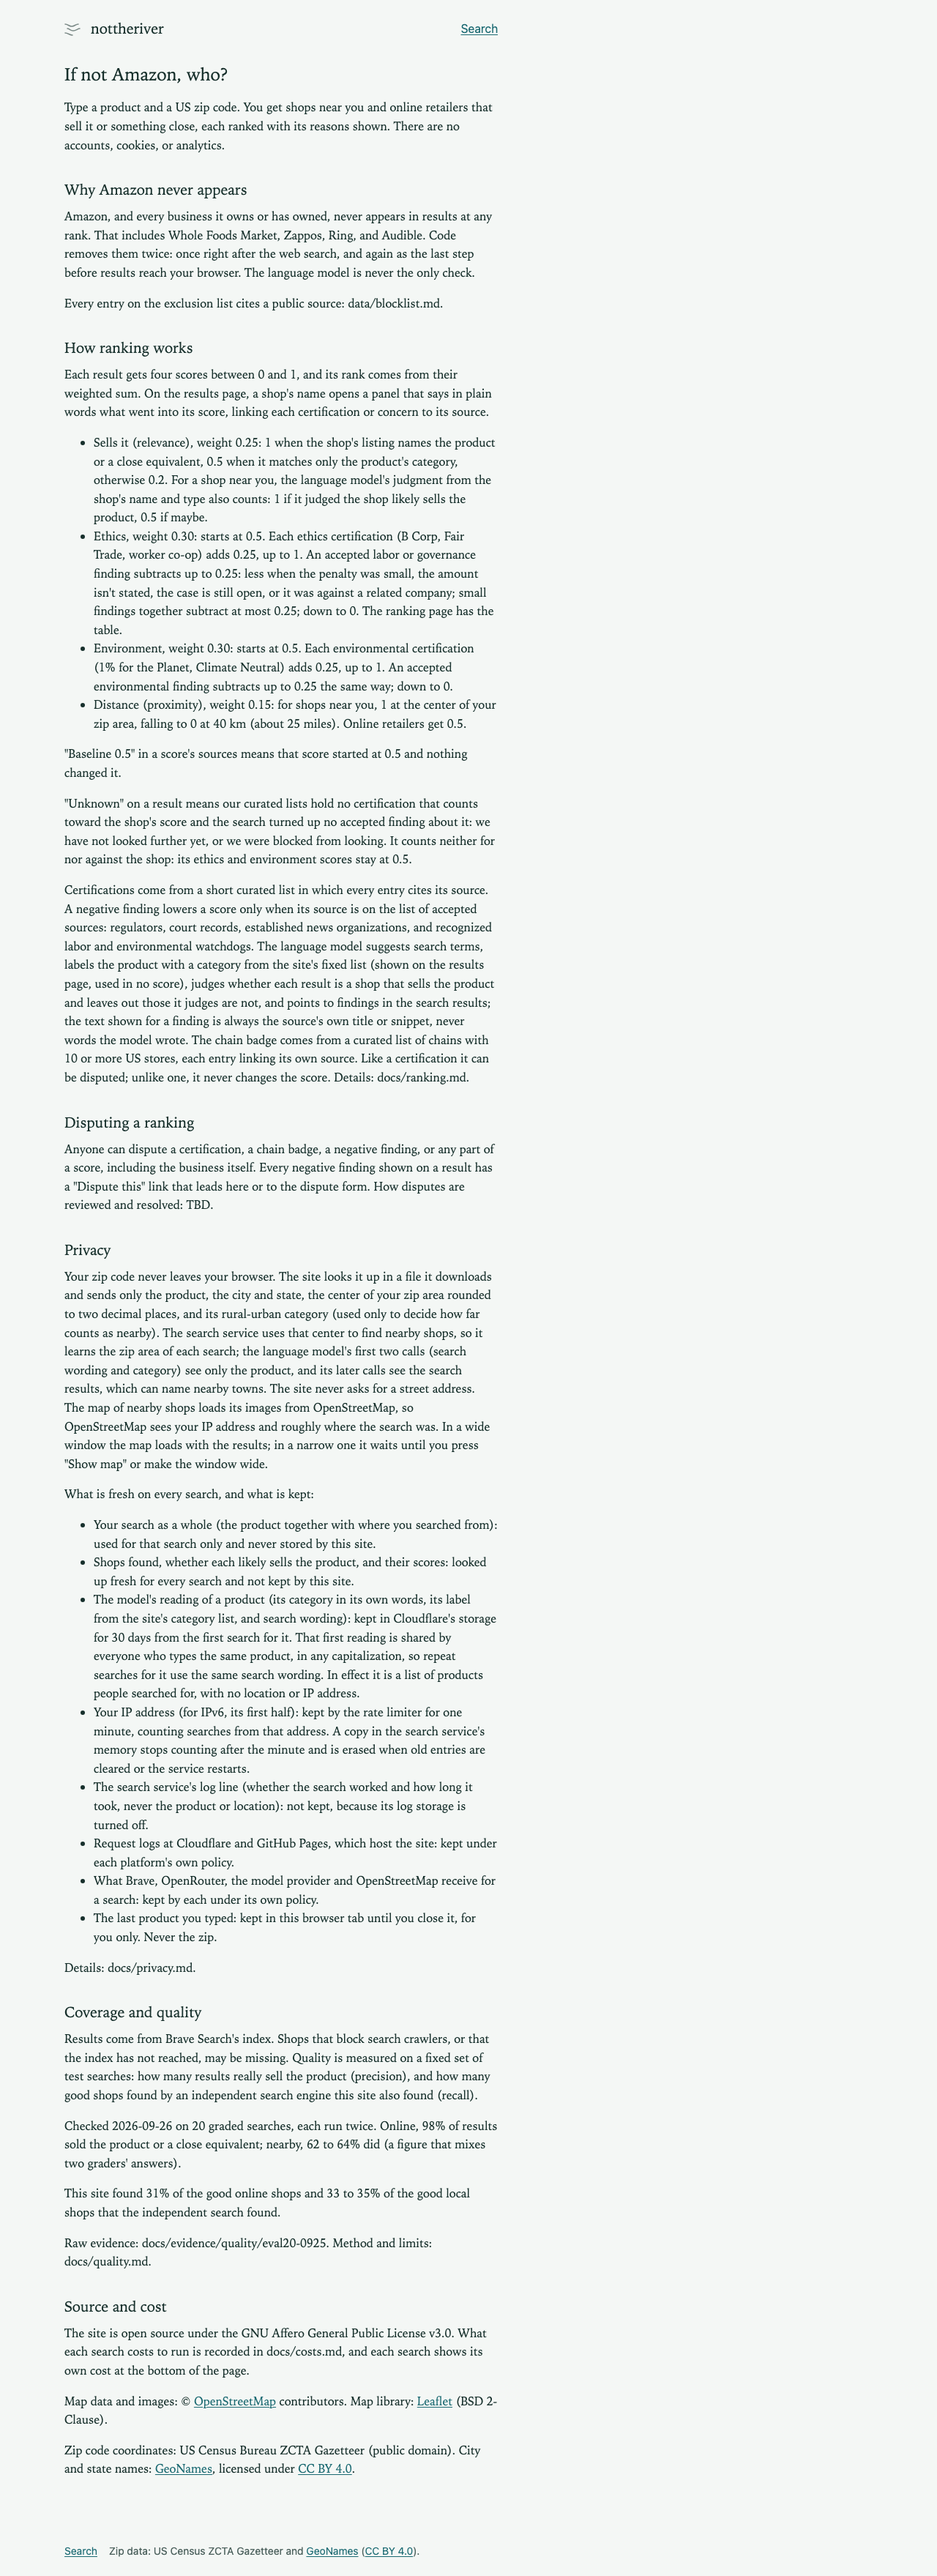
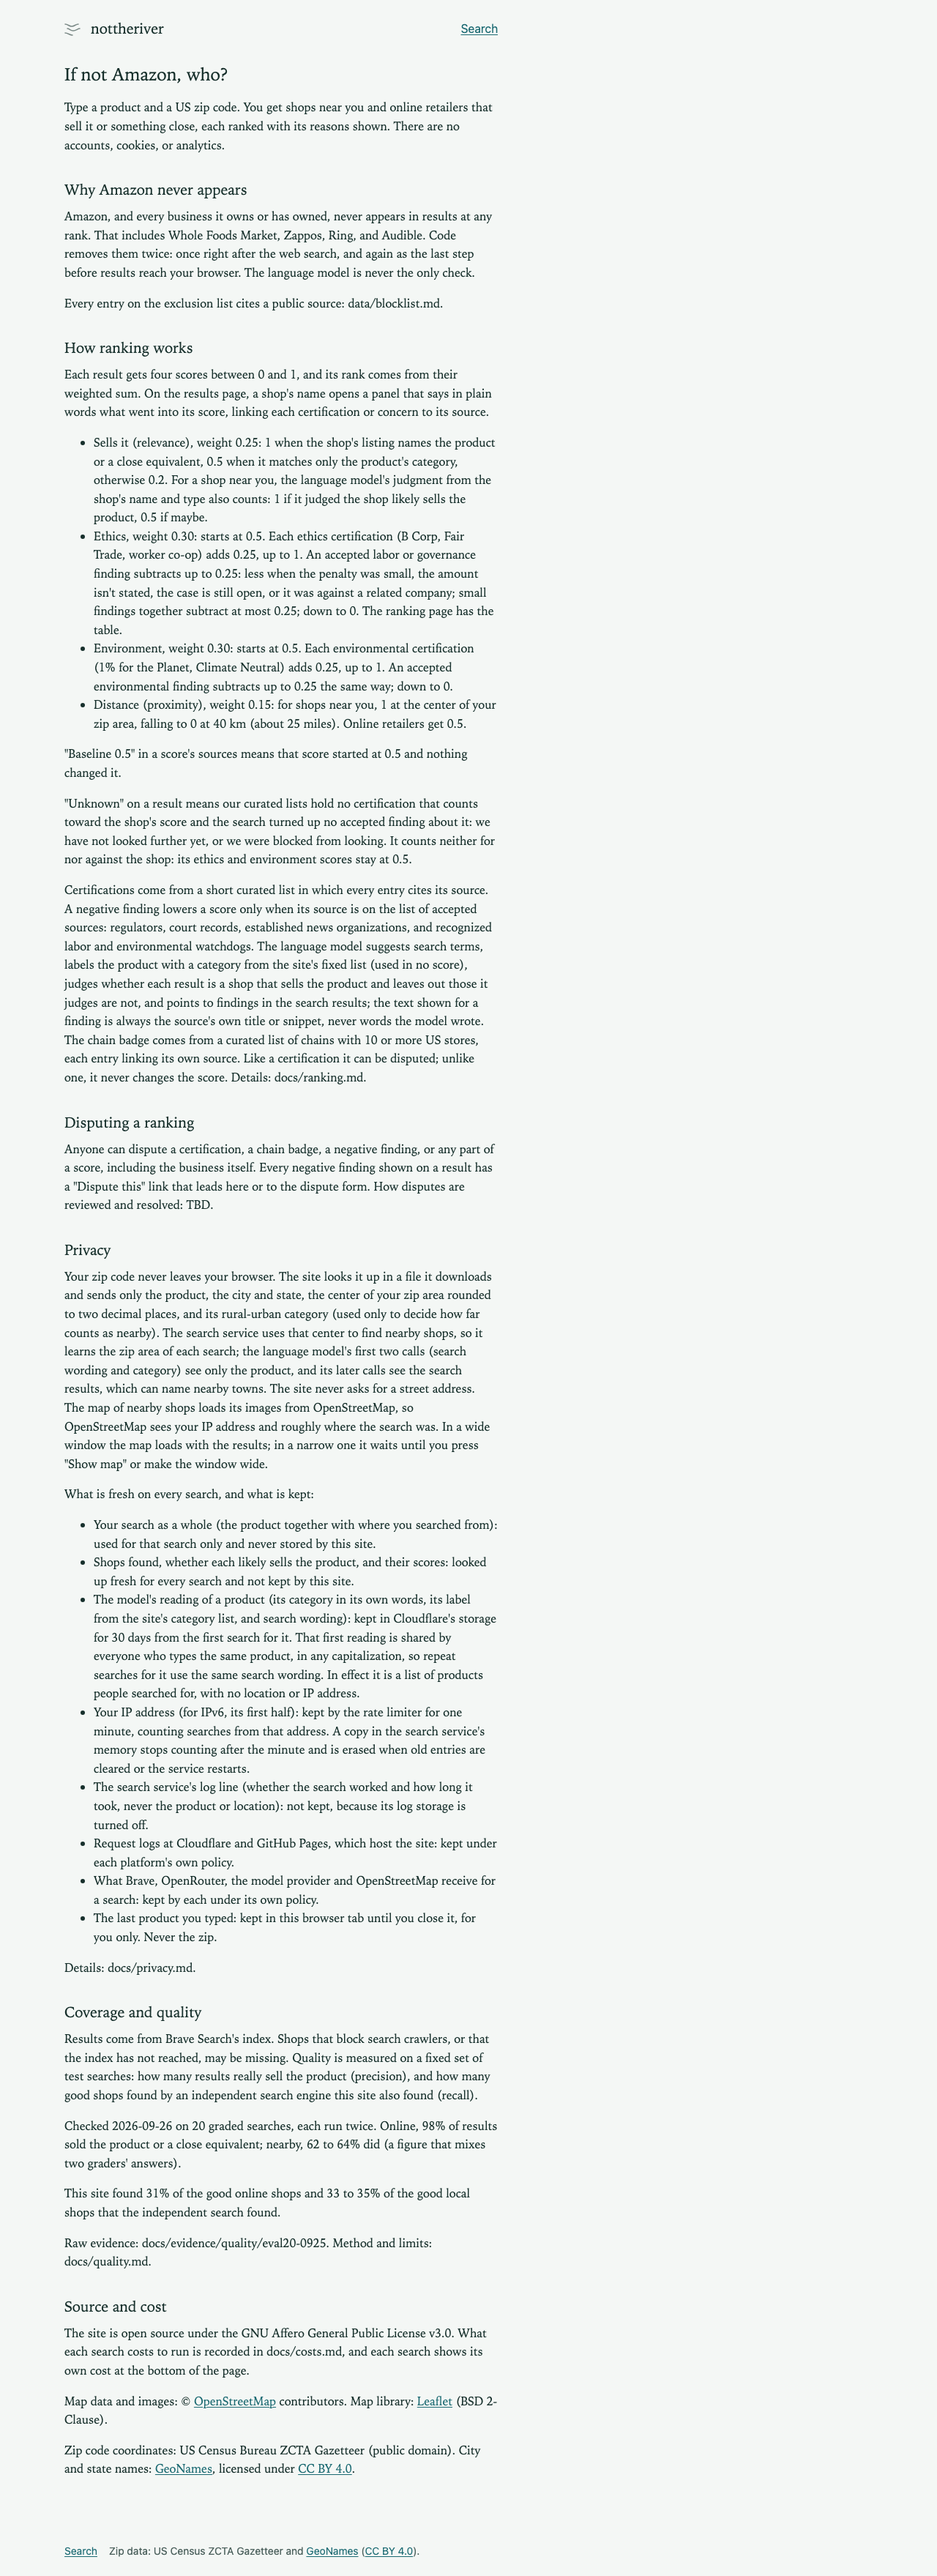
feat(results): show the generic name alone on the "We looked for" line
The owner dropped the category names from the line. The line now shows
for every search reply, since it no longer reads the category pick. The
About page no longer says the category is shown on the results page.

Changed region(s): [[0.0625, 0.3718, 0.5312, 0.4338]]

diff --git a/src/main.test.ts b/src/main.test.ts
@@ -266,29 +266,24 @@ describe('search page', () => {
     expect(box.querySelector('details')!.open).toBe(true);
   });
 
-  it('says how the search was read when the reply carries a category pick, and clears it for the next search', async () => {
-    const pick = { general: 'tools_hardware', specific: 'power_tools', general_name: 'Tools and hardware', specific_name: 'Power tools' };
-    searchReplies(() => new Response(JSON.stringify({ ...fixture, query: { ...fixture.query, product: 'DeWalt DCD771', canonical_name: 'cordless drill', pick } }), { status: 200 }));
+  it('says how the search was read, and replaces the line on the next search', async () => {
+    searchReplies(() => new Response(JSON.stringify({ ...fixture, query: { ...fixture.query, product: 'DeWalt DCD771', canonical_name: 'cordless drill' } }), { status: 200 }));
     submit('DeWalt DCD771', '10001');
     const line = $('[data-looked-for]');
-    await vi.waitFor(() => expect(line.hidden).toBe(false));
-    expect(line.textContent).toBe('We looked for: cordless drill (Tools and hardware, Power tools)');
-    // A reply from a Worker that made no category call has no pick: no line, and the page still works.
-    searchReplies(() => new Response(JSON.stringify(fixture), { status: 200 }));
+    await vi.waitFor(() => expect(line.textContent).toBe('We looked for: cordless drill'));
+    expect(line.hidden).toBe(false);
+    searchReplies(() => new Response(JSON.stringify({ ...fixture, query: { ...fixture.query, canonical_name: 'kettle' } }), { status: 200 }));
     submit('kettle', '10001');
-    await vi.waitFor(() => expect($('[data-found]').textContent).toMatch(/^Found/));
-    expect(line.hidden).toBe(true);
-    expect(line.textContent).toBe('');
+    await vi.waitFor(() => expect(line.textContent).toBe('We looked for: kettle'));
   });
 
   it('says how the search was read when the search found nothing', async () => {
-    const pick = { general: 'tools_hardware', specific: null, general_name: 'Tools and hardware' };
-    const query = { ...fixture.query, product: 'DeWalt DCD771', canonical_name: 'cordless drill', pick };
+    const query = { ...fixture.query, product: 'DeWalt DCD771', canonical_name: 'cordless drill' };
     searchReplies(() => new Response(JSON.stringify({ ...fixture, query, local: [], local_farther: [], online: [] }), { status: 200 }));
     submit('DeWalt DCD771', '10001');
     const line = $('[data-looked-for]');
     await vi.waitFor(() => expect(line.hidden).toBe(false));
-    expect(line.textContent).toBe('We looked for: cordless drill (Tools and hardware)');
+    expect(line.textContent).toBe('We looked for: cordless drill');
     expect($('#results').hidden).toBe(true);
   });
 

diff --git a/about.html b/about.html
@@ -39,7 +39,7 @@
 </ul>
 <p>"Baseline 0.5" in a score's sources means that score started at 0.5 and nothing changed it.</p>
 <p>"Unknown" on a result means our curated lists hold no certification that counts toward the shop's score and the search turned up no accepted finding about it: we have not looked further yet, or we were blocked from looking. It counts neither for nor against the shop: its ethics and environment scores stay at 0.5.</p>
-<p>Certifications come from a short curated list in which every entry cites its source. A negative finding lowers a score only when its source is on the list of accepted sources: regulators, court records, established news organizations, and recognized labor and environmental watchdogs. The language model suggests search terms, labels the product with a category from the site's fixed list (shown on the results page, used in no score), judges whether each result is a shop that sells the product and leaves out those it judges are not, and points to findings in the search results; the text shown for a finding is always the source's own title or snippet, never words the model wrote. The chain badge comes from a curated list of chains with 10 or more US stores, each entry linking its own source. Like a certification it can be disputed; unlike one, it never changes the score. Details: <a data-repo-path="blob/main/docs/ranking.md">docs/ranking.md</a>.</p>
+<p>Certifications come from a short curated list in which every entry cites its source. A negative finding lowers a score only when its source is on the list of accepted sources: regulators, court records, established news organizations, and recognized labor and environmental watchdogs. The language model suggests search terms, labels the product with a category from the site's fixed list (used in no score), judges whether each result is a shop that sells the product and leaves out those it judges are not, and points to findings in the search results; the text shown for a finding is always the source's own title or snippet, never words the model wrote. The chain badge comes from a curated list of chains with 10 or more US stores, each entry linking its own source. Like a certification it can be disputed; unlike one, it never changes the score. Details: <a data-repo-path="blob/main/docs/ranking.md">docs/ranking.md</a>.</p>
 
 <h2 id="dispute">Disputing a ranking</h2>
 <p>Anyone can dispute a certification, a chain badge, a negative finding, or any part of a score, including the business itself. Every negative finding shown on a result has a "Dispute this" link that leads here or to the dispute form. How disputes are reviewed and resolved: TBD.</p>

diff --git a/src/render.test.ts b/src/render.test.ts
@@ -1089,27 +1089,18 @@ describe('map of nearby shops', () => {
 });
 
 describe('renderLookedFor', () => {
-  const query = (pick?: SearchResponse['query']['pick']) => ({ ...response.query, canonical_name: 'laptop', ...(pick && { pick }) });
-  const line = (pick?: SearchResponse['query']['pick']) => {
-    const p = document.createElement('p');
-    renderLookedFor(p, query(pick));
-    return p;
-  };
-
-  it.each([
-    ['both levels', { general: 'electronics', specific: 'computers', general_name: 'Electronics and computers', specific_name: 'Computers' }, 'We looked for: laptop (Electronics and computers, Computers)'],
-    ['the general level alone', { general: 'pets', specific: null, general_name: 'Pet supplies' }, 'We looked for: laptop (Pet supplies)'],
-    ['no category', { general: 'none', specific: null }, 'We looked for: laptop'],
-    ['not a product: the name alone, never an id', { general: 'not_a_product', specific: 'meal' }, 'We looked for: laptop'],
-  ])('%s', (_name, pick, text) => {
-    const p = line(pick);
-    expect(p.hidden).toBe(false);
-    expect(p.textContent).toBe(text);
+  it('shows the generic name alone, with or without a category pick', () => {
+    for (const pick of [undefined, { general: 'electronics', specific: 'computers', general_name: 'Electronics and computers', specific_name: 'Computers' }]) {
+      const p = document.createElement('p');
+      renderLookedFor(p, { ...response.query, canonical_name: 'laptop', ...(pick && { pick }) });
+      expect(p.hidden).toBe(false);
+      expect(p.textContent).toBe('We looked for: laptop');
+    }
   });
 
-  it('stays hidden without a pick, and is emptied when the results are cleared', () => {
-    expect(line().hidden).toBe(true);
-    const p = line({ general: 'none', specific: null });
+  it('is hidden and emptied when the results are cleared', () => {
+    const p = document.createElement('p');
+    renderLookedFor(p, { ...response.query, canonical_name: 'laptop' });
     renderLookedFor(p, null);
     expect(p.hidden).toBe(true);
     expect(p.textContent).toBe('');

diff --git a/src/render.ts b/src/render.ts
@@ -570,18 +570,11 @@ export function renderFooter(target: HTMLElement, usage: Usage): void {
   target.hidden = false;
 }
 
-// How the site read the search: the model's generic name for the product and the category picked
-// from the fixed list, so a shopper can see a wrong reading. Drawn once per search. A reply from a
-// Worker that made no category call carries no pick, and then the line stays hidden.
+// How the site read the search: the model's generic name for the product, so a shopper can see a
+// wrong reading. Drawn once per search.
 export function renderLookedFor(target: HTMLElement, query: SearchResponse['query'] | null): void {
-  const pick = query?.pick;
-  target.hidden = !pick;
-  if (!query || !pick) {
-    target.textContent = '';
-    return;
-  }
-  const names = [pick.general_name, pick.specific_name].filter(Boolean);
-  target.textContent = `We looked for: ${query.canonical_name}${names.length ? ` (${names.join(', ')})` : ''}`;
+  target.hidden = !query;
+  target.textContent = query ? `We looked for: ${query.canonical_name}` : '';
 }
 
 const IDEA_LEAD: Record<Idea, string> = { borrow: 'Borrow it.', repair: 'Repair the one you have.', used: 'Buy it used.' };
